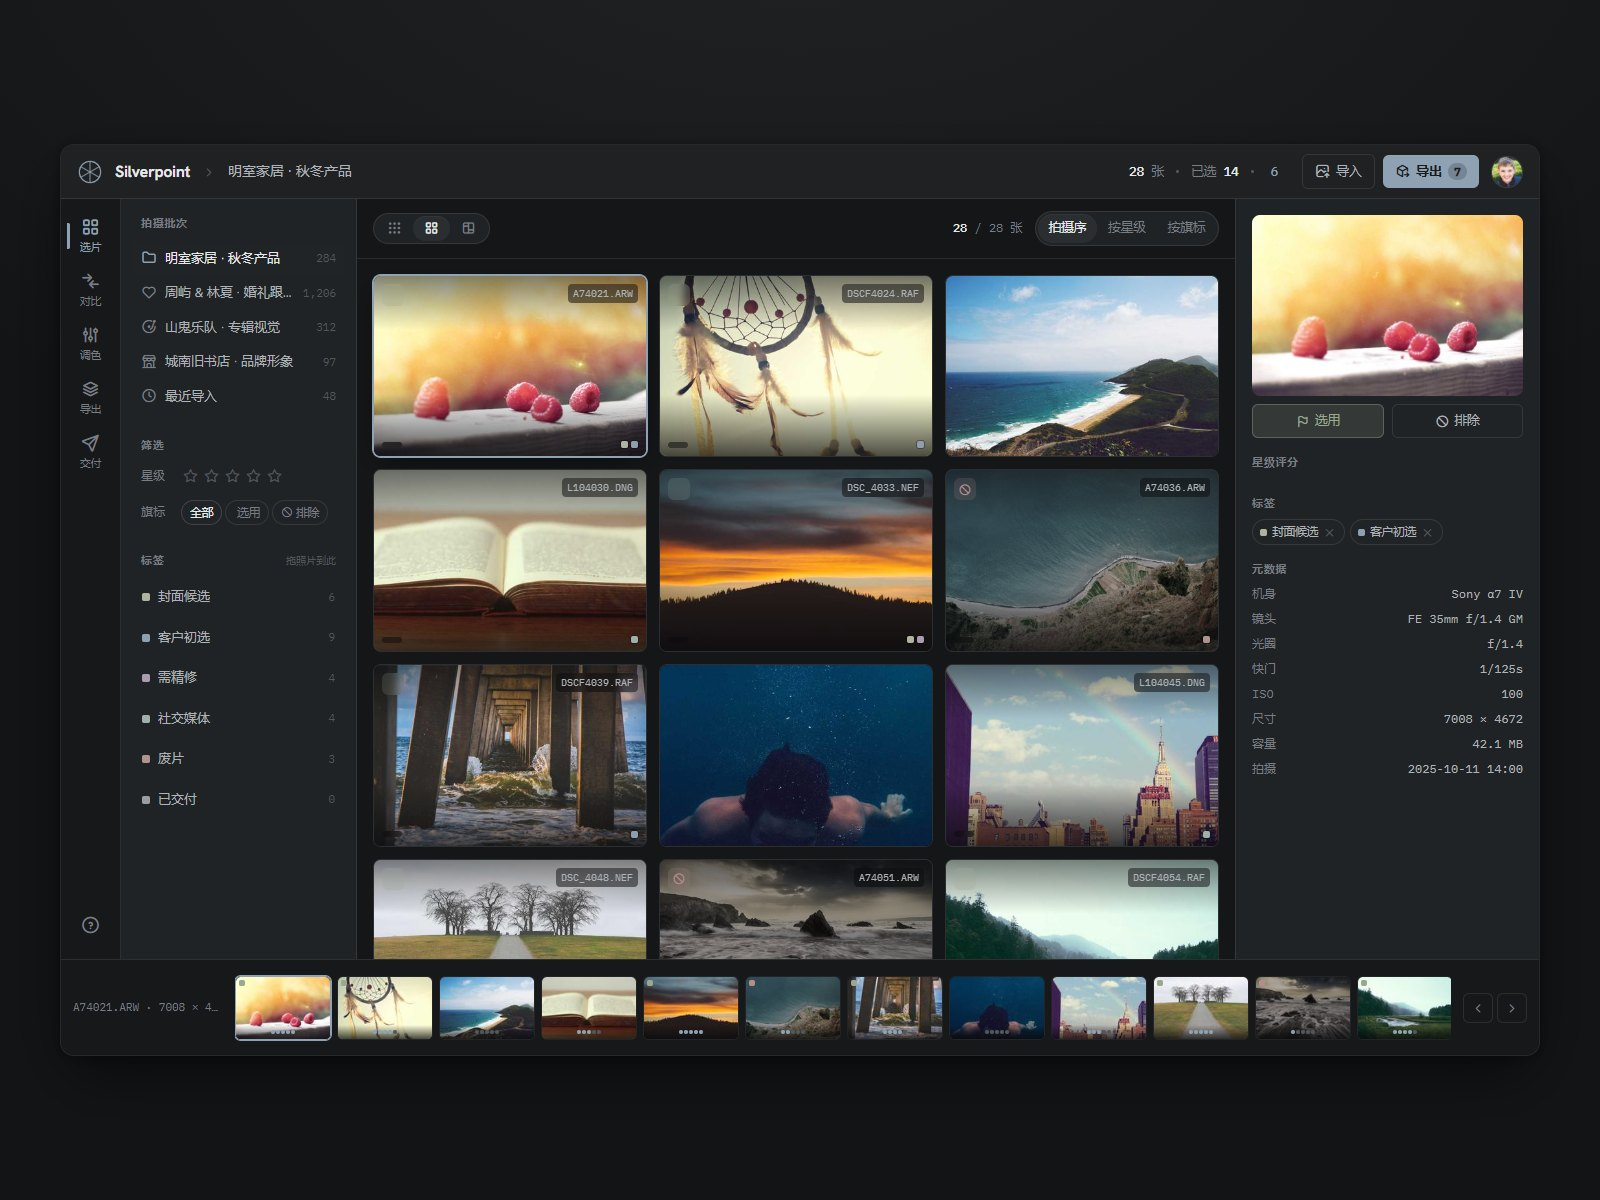
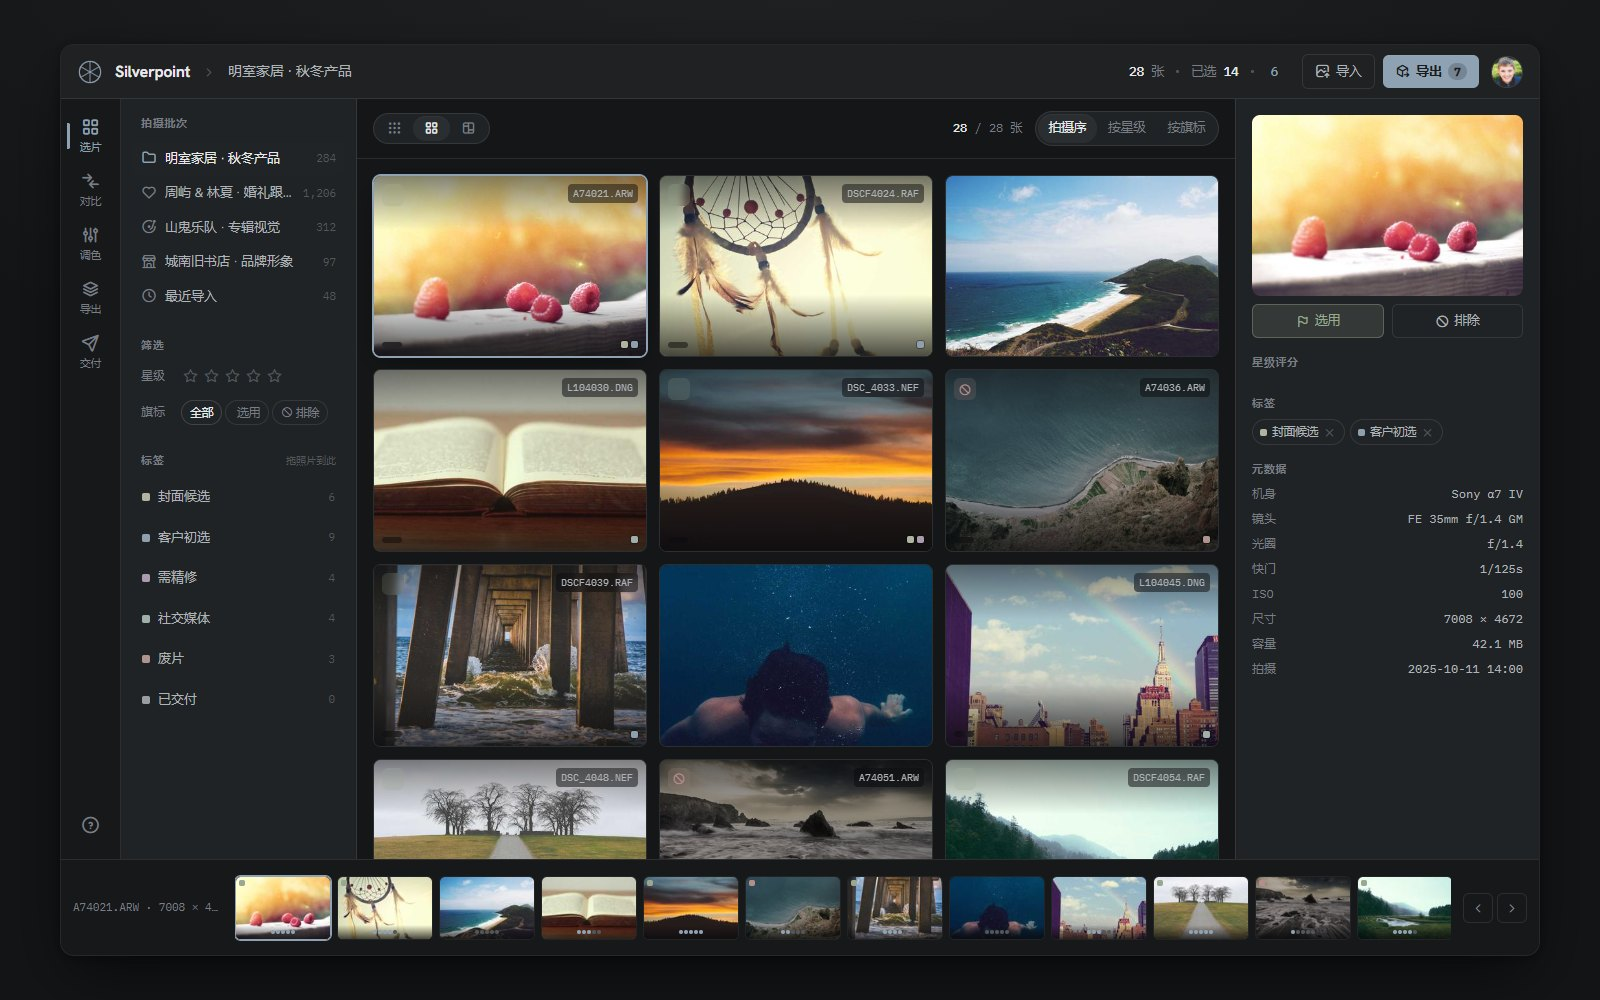
feat: 优化 UI 原型图标规范并将展示截图尺寸统一为 1600×1000
- mono-ui-prototype skill 图标规范：新增线性/实心双形态（激活/选中/收藏等"开"态用实心避免不可见），线宽可调（webfont 默认2 / -300=1.5 推荐 / -200=1）
- 截图默认尺寸 1600×1200 → 1600×1000（8:5）：capture.mjs 默认高度、Gallery <img> 尺寸、卡片 .frame 比例、README、catalog 测试断言同步
- 重拍全部已跟踪原型展示截图为 1600×1000

排除 ui/card-market（未跟踪，本次不纳入）

diff --git a/site/src/styles/theme.css b/site/src/styles/theme.css
@@ -122,7 +122,7 @@ html[lang="en"] .hero-title h1{font-size:clamp(44px,6vw,96px)}
 .card{display:flex;flex-direction:column;min-width:0}
 .card[hidden]{display:none}
 .media{display:block;transition:transform .5s var(--ease)}
-.frame{position:relative;display:block;aspect-ratio:4/3;overflow:hidden;border:7px solid var(--card);box-shadow:inset 0 0 0 1px var(--line),var(--shadow-sm);background:var(--mat);transition:box-shadow .5s var(--ease)}
+.frame{position:relative;display:block;aspect-ratio:8/5;overflow:hidden;border:7px solid var(--card);box-shadow:inset 0 0 0 1px var(--line),var(--shadow-sm);background:var(--mat);transition:box-shadow .5s var(--ease)}
 .frame img{position:absolute;inset:0;width:100%;height:100%;object-fit:cover;object-position:top center;opacity:0;transition:opacity .4s var(--ease),transform .6s var(--ease)}
 .frame img.is-on{opacity:1}
 .card:hover .media{transform:translateY(-6px)}

diff --git a/site/README.md b/site/README.md
@@ -40,11 +40,11 @@ npm test           # 元数据规则、截图排序、发布白名单测试
 # 仓库根目录或 site/ 下均可（site 下用 npm run screenshots -- ...）
 node tools/screenshots/capture.mjs --all
 node tools/screenshots/capture.mjs --slug spidey-watch --overwrite
-node tools/screenshots/capture.mjs --all --width 1600 --height 1200 --count 3
+node tools/screenshots/capture.mjs --all --width 1600 --height 1000 --count 3
 ```
 
 - 输出 `ui/<slug>/screenshots/1.jpg`、`2.jpg`…（`--count N` 截 N 张）；已存在的文件默认保留，`--overwrite` 覆盖。
-- 默认 1600×1200（4:3），与卡片比例一致。软件类原型多以 900px 高度为紧凑布局断点，低于该高度会折叠面板，所以视口不宜过小。
+- 默认 1600×1000（8:5），与卡片比例一致。软件类原型多以 900px 高度为紧凑布局断点，低于该高度会折叠面板，所以视口不宜过小。
 - 优先用本机 Edge；没有时运行 `npx playwright install chromium`。
 - 手动截图同样按 `1.jpg`、`2.jpg` 命名放入该目录即可，多张时卡片悬停会轮播。
 
